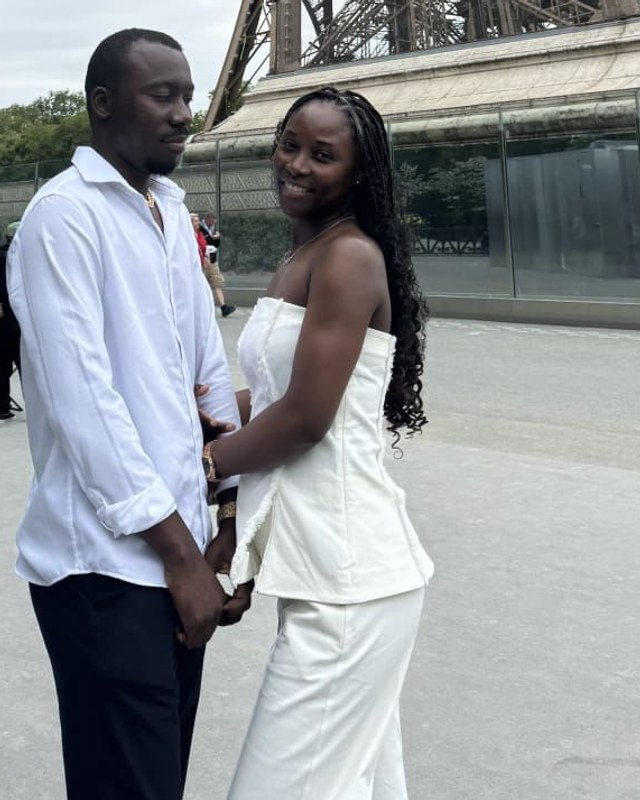
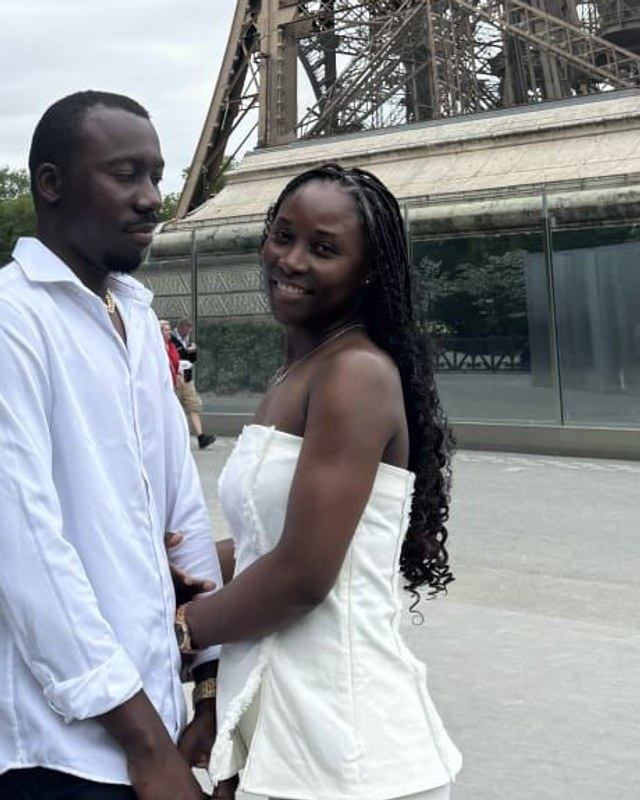
modif majeure 13

diff --git a/index.html b/index.html
@@ -434,7 +434,7 @@ footer .small{font-family:var(--display);letter-spacing:.3em;text-transform:uppe
   <div class="hero-bg" aria-hidden="true"></div>
   <div class="hero-overlay" aria-hidden="true"></div>
   <div class="float">
-    <div class="portrait"><img src="eric-raissa-portrait.jpg" alt="Raïssa et Eric"></div>
+    <div class="portrait"><img src="eric-raissa-blend.jpg" alt="Raïssa et Eric"></div>
     <p class="kicker">Nous nous marions</p>
     <h1 class="names">Raïssa<span class="amp">&amp;</span>Eric</h1>
     <div class="date-badges"><span>19</span><span>Décembre</span><span>2026</span></div>
